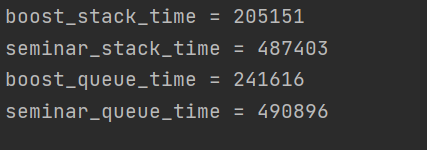
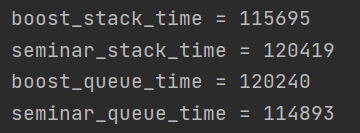
homework_8/Threadsafe_function_comparison fix

diff --git a/homework_8/Threadsafe_function_comparison/main.cpp b/homework_8/Threadsafe_function_comparison/main.cpp
@@ -40,30 +40,6 @@ void push_op_boost (T & container, std::size_t num_iter_per_thread)
     }
 }
 
-template <typename T>
-auto test_boost (T & container, std::size_t num_iter_per_thread)
-{
-    auto num_threads = std::thread::hardware_concurrency();
-//    std::atomic < bool > flag = false;
-    std::vector < std::future < void > > pushers (num_threads/2);
-    std::vector < std::future < void > > popers (num_threads/2 - 1);
-    for (auto & future: pushers)
-    {
-        future = std::async(std::launch::async, push_op_boost < T >, std::ref(container), num_iter_per_thread);
-    }
-    for (auto & future: popers)
-    {
-        future = std::async(std::launch::async, pop_op_boost < T >, std::ref(container), num_iter_per_thread);
-    }
-    Timer time;
-    execution_start.store(true);
-    pop_op_boost(container, num_iter_per_thread);
-    while (!container.empty()){
-        std::this_thread::yield();
-    }
-    time.StopTimer();
-    return time.GetTime();
-}
 
 template <typename T>
 void pop_op_seminar (T & container, std::size_t num_iter_per_thread)
@@ -72,11 +48,11 @@ void pop_op_seminar (T & container, std::size_t num_iter_per_thread)
     {
         std::this_thread::yield();
     }
-    std::size_t counter = 0;
+
     int temp;
     for (auto i = 0U; i < num_iter_per_thread; ++i)
     {
-        container.wait_and_pop(temp);
+        container.pop(temp);
     }
 }
 
@@ -93,38 +69,44 @@ void push_op_seminar (T & container, std::size_t num_iter_per_thread)
     }
 }
 
-template <typename T>
-auto test_seminar (T & container, std::size_t num_iter_per_thread)
+template <typename T, typename F>
+auto test (T & container, std::size_t num_iter_per_thread, F & pop_function, F & push_function)
 {
     auto num_threads = std::thread::hardware_concurrency();
-//    std::atomic < bool > flag = false;
+
     std::vector < std::future < void > > pushers (num_threads/2);
     std::vector < std::future < void > > popers (num_threads/2 - 1);
     for (auto & future: pushers)
     {
-        future = std::async(std::launch::async, push_op_seminar < T >, std::ref(container), num_iter_per_thread);
+        future = std::async(std::launch::async, push_function, std::ref(container), num_iter_per_thread);
     }
     for (auto & future: popers)
     {
-        future = std::async(std::launch::async, pop_op_seminar < T >, std::ref(container), num_iter_per_thread);
+        future = std::async(std::launch::async, pop_function, std::ref(container), num_iter_per_thread);
     }
     Timer time;
     execution_start.store(true);
-    pop_op_seminar(container, num_iter_per_thread);
-    while (!container.empty()){
-        std::this_thread::yield();
+    pop_function(container, num_iter_per_thread);
+
+    for (auto & future: pushers)
+    {
+        future.wait();
+    }
+    for (auto & future: popers)
+    {
+        future.wait();
     }
     time.StopTimer();
     return time.GetTime();
 }
 
-template<typename T, typename F>
-auto time_it (T & container, F f, std::size_t num_iter, std::size_t num_inserts)
+template<typename T, typename F1, typename F2>
+auto time_it (T & container, F1 f, F2 pop_f, F2 push_f, std::size_t num_iter, std::size_t num_inserts)
 {
     Timer time;
     for (auto i = 0U; i < num_iter; ++i)
     {
-        f(container, num_inserts);
+        f(container, num_inserts, pop_f, push_f);
     }
     time.StopTimer();
     return time.GetTime();
@@ -140,17 +122,34 @@ int main(int argc, char** argv)
     boost::lockfree::queue < int > q_1 (size);
     Threadsafe_Stack < int > st_2;
     Threadsafe_Queue < int > q_2;
-//    std::cout << test_boost(st_1, 100);
-//    std::cout << test_seminar(st_2, 100);
-    std::cout << "boost_stack_time = " << time_it(st_1, test_boost <boost::lockfree::stack < int >>,
-                                                  num_iter, inserts) << std::endl;
-    std::cout << "seminar_stack_time = " << time_it(st_2, test_seminar < Threadsafe_Stack < int > >,
-                                                  num_iter, inserts) << std::endl;
+    for (auto i = 0U; i < 10*inserts; ++i)
+    {
+        st_1.push(128);
+        st_2.push(128);
+        q_1.push(128);
+        q_2.push(128);
+    }
 
-    std::cout << "boost_queue_time = " << time_it(q_1, test_boost < boost::lockfree::queue < int > >,
-                                                  num_iter, inserts) << std::endl;
-    std::cout << "seminar_queue_time = " << time_it(q_2, test_seminar < Threadsafe_Queue < int > >,
-                                                  num_iter, inserts) << std::endl;
+    std::cout << "boost_stack_time = " << time_it(st_1, test <boost::lockfree::stack < int >,
+                                                     void (*)(boost::lockfree::stack<int> &, unsigned int)>,
+                                                     pop_op_boost < boost::lockfree::stack < int > >,
+                                                     push_op_boost < boost::lockfree::stack < int > >,
+                                                     num_iter, inserts) << std::endl;
+    std::cout << "seminar_stack_time = " << time_it(st_2, test <Threadsafe_Stack < int >,
+                                                     void (*)(Threadsafe_Stack < int > &, unsigned int)>,
+                                                     pop_op_seminar < Threadsafe_Stack < int > >,
+                                                     push_op_seminar < Threadsafe_Stack < int > >,
+                                                     num_iter, inserts) << std::endl;
+    std::cout << "boost_queue_time = " << time_it(q_1, test <boost::lockfree::queue < int >,
+                                                     void (*)(boost::lockfree::queue<int> &, unsigned int)>,
+                                                     pop_op_boost < boost::lockfree::queue < int > >,
+                                                     push_op_boost < boost::lockfree::queue < int > >,
+                                                     num_iter, inserts) << std::endl;
+    std::cout << "seminar_queue_time = " << time_it(q_2, test <Threadsafe_Queue < int >,
+                                                           void (*)(Threadsafe_Queue < int > &, unsigned int)>,
+                                                     pop_op_seminar < Threadsafe_Queue < int > >,
+                                                     push_op_seminar < Threadsafe_Queue < int > >,
+                                                     num_iter, inserts) << std::endl;
 
     return EXIT_SUCCESS;
 }

diff --git a/homework_8/Threadsafe_function_comparison/threadsafe_queue.h b/homework_8/Threadsafe_function_comparison/threadsafe_queue.h
@@ -34,6 +34,19 @@ public:
         m_condition_variable.notify_one();
     }
 
+    void pop(T & value)
+    {
+        std::unique_lock < std::mutex > lock(m_mutex);
+
+        if (m_queue.empty())
+        {
+            throw std::range_error("empty stack");
+        }
+
+        value = m_queue.front();
+        m_queue.pop();
+    }
+
     void wait_and_pop(T & value)
     {
         std::unique_lock < std::mutex > lock(m_mutex);
@@ -88,6 +101,12 @@ public:
     {
         std::lock_guard < std::mutex > lock(m_mutex);
         return m_queue.empty();
+    }
+
+    size_t size() const
+    {
+        std::lock_guard < std::mutex > lock(m_mutex);
+        return m_queue.size();
     }
 
 private:

diff --git a/homework_8/Threadsafe_function_comparison/threadsafe_stack.h b/homework_8/Threadsafe_function_comparison/threadsafe_stack.h
@@ -49,7 +49,7 @@ public:
 
     void pop(T & value)
     {
-        std::lock_guard < std::mutex > lock(m_mutex);
+        std::unique_lock < std::mutex > lock(m_mutex);
 
         if (m_data.empty())
         {
@@ -73,6 +73,12 @@ public:
     {
         std::lock_guard < std::mutex > lock(m_mutex);
         return m_data.empty();
+    }
+
+    size_t size() const
+    {
+        std::lock_guard < std::mutex > lock(m_mutex);
+        return m_data.size();
     }
 
 private:
